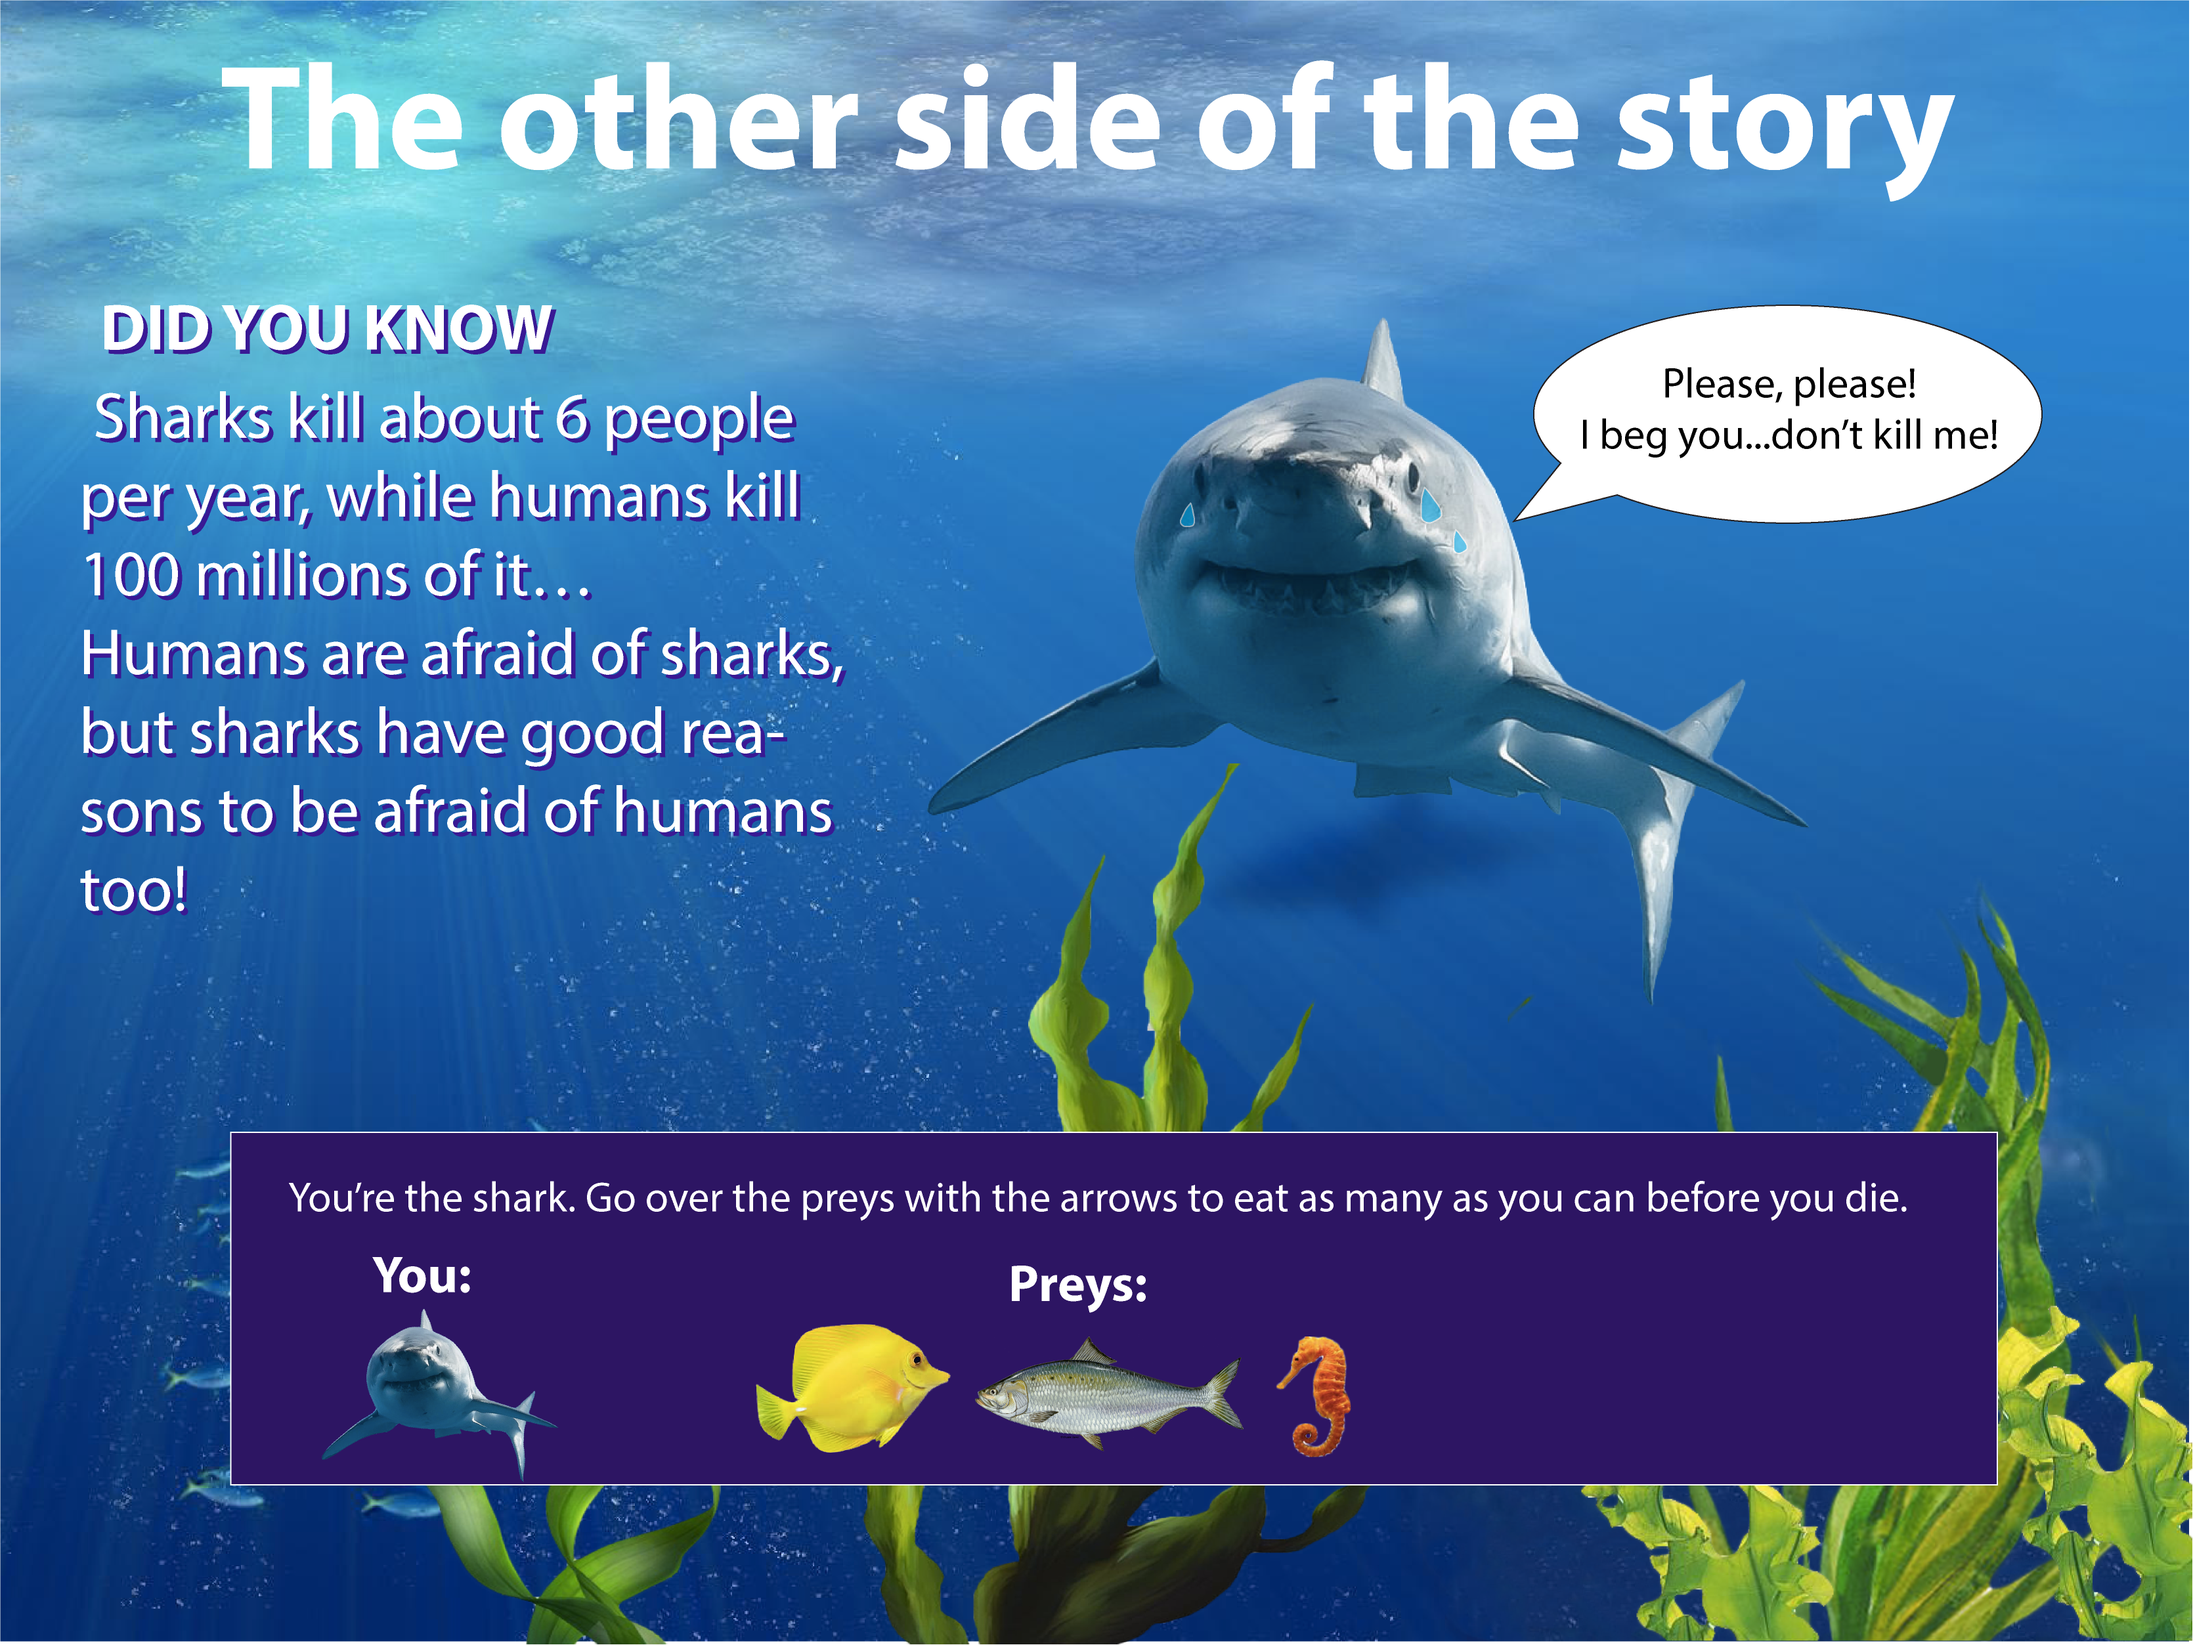
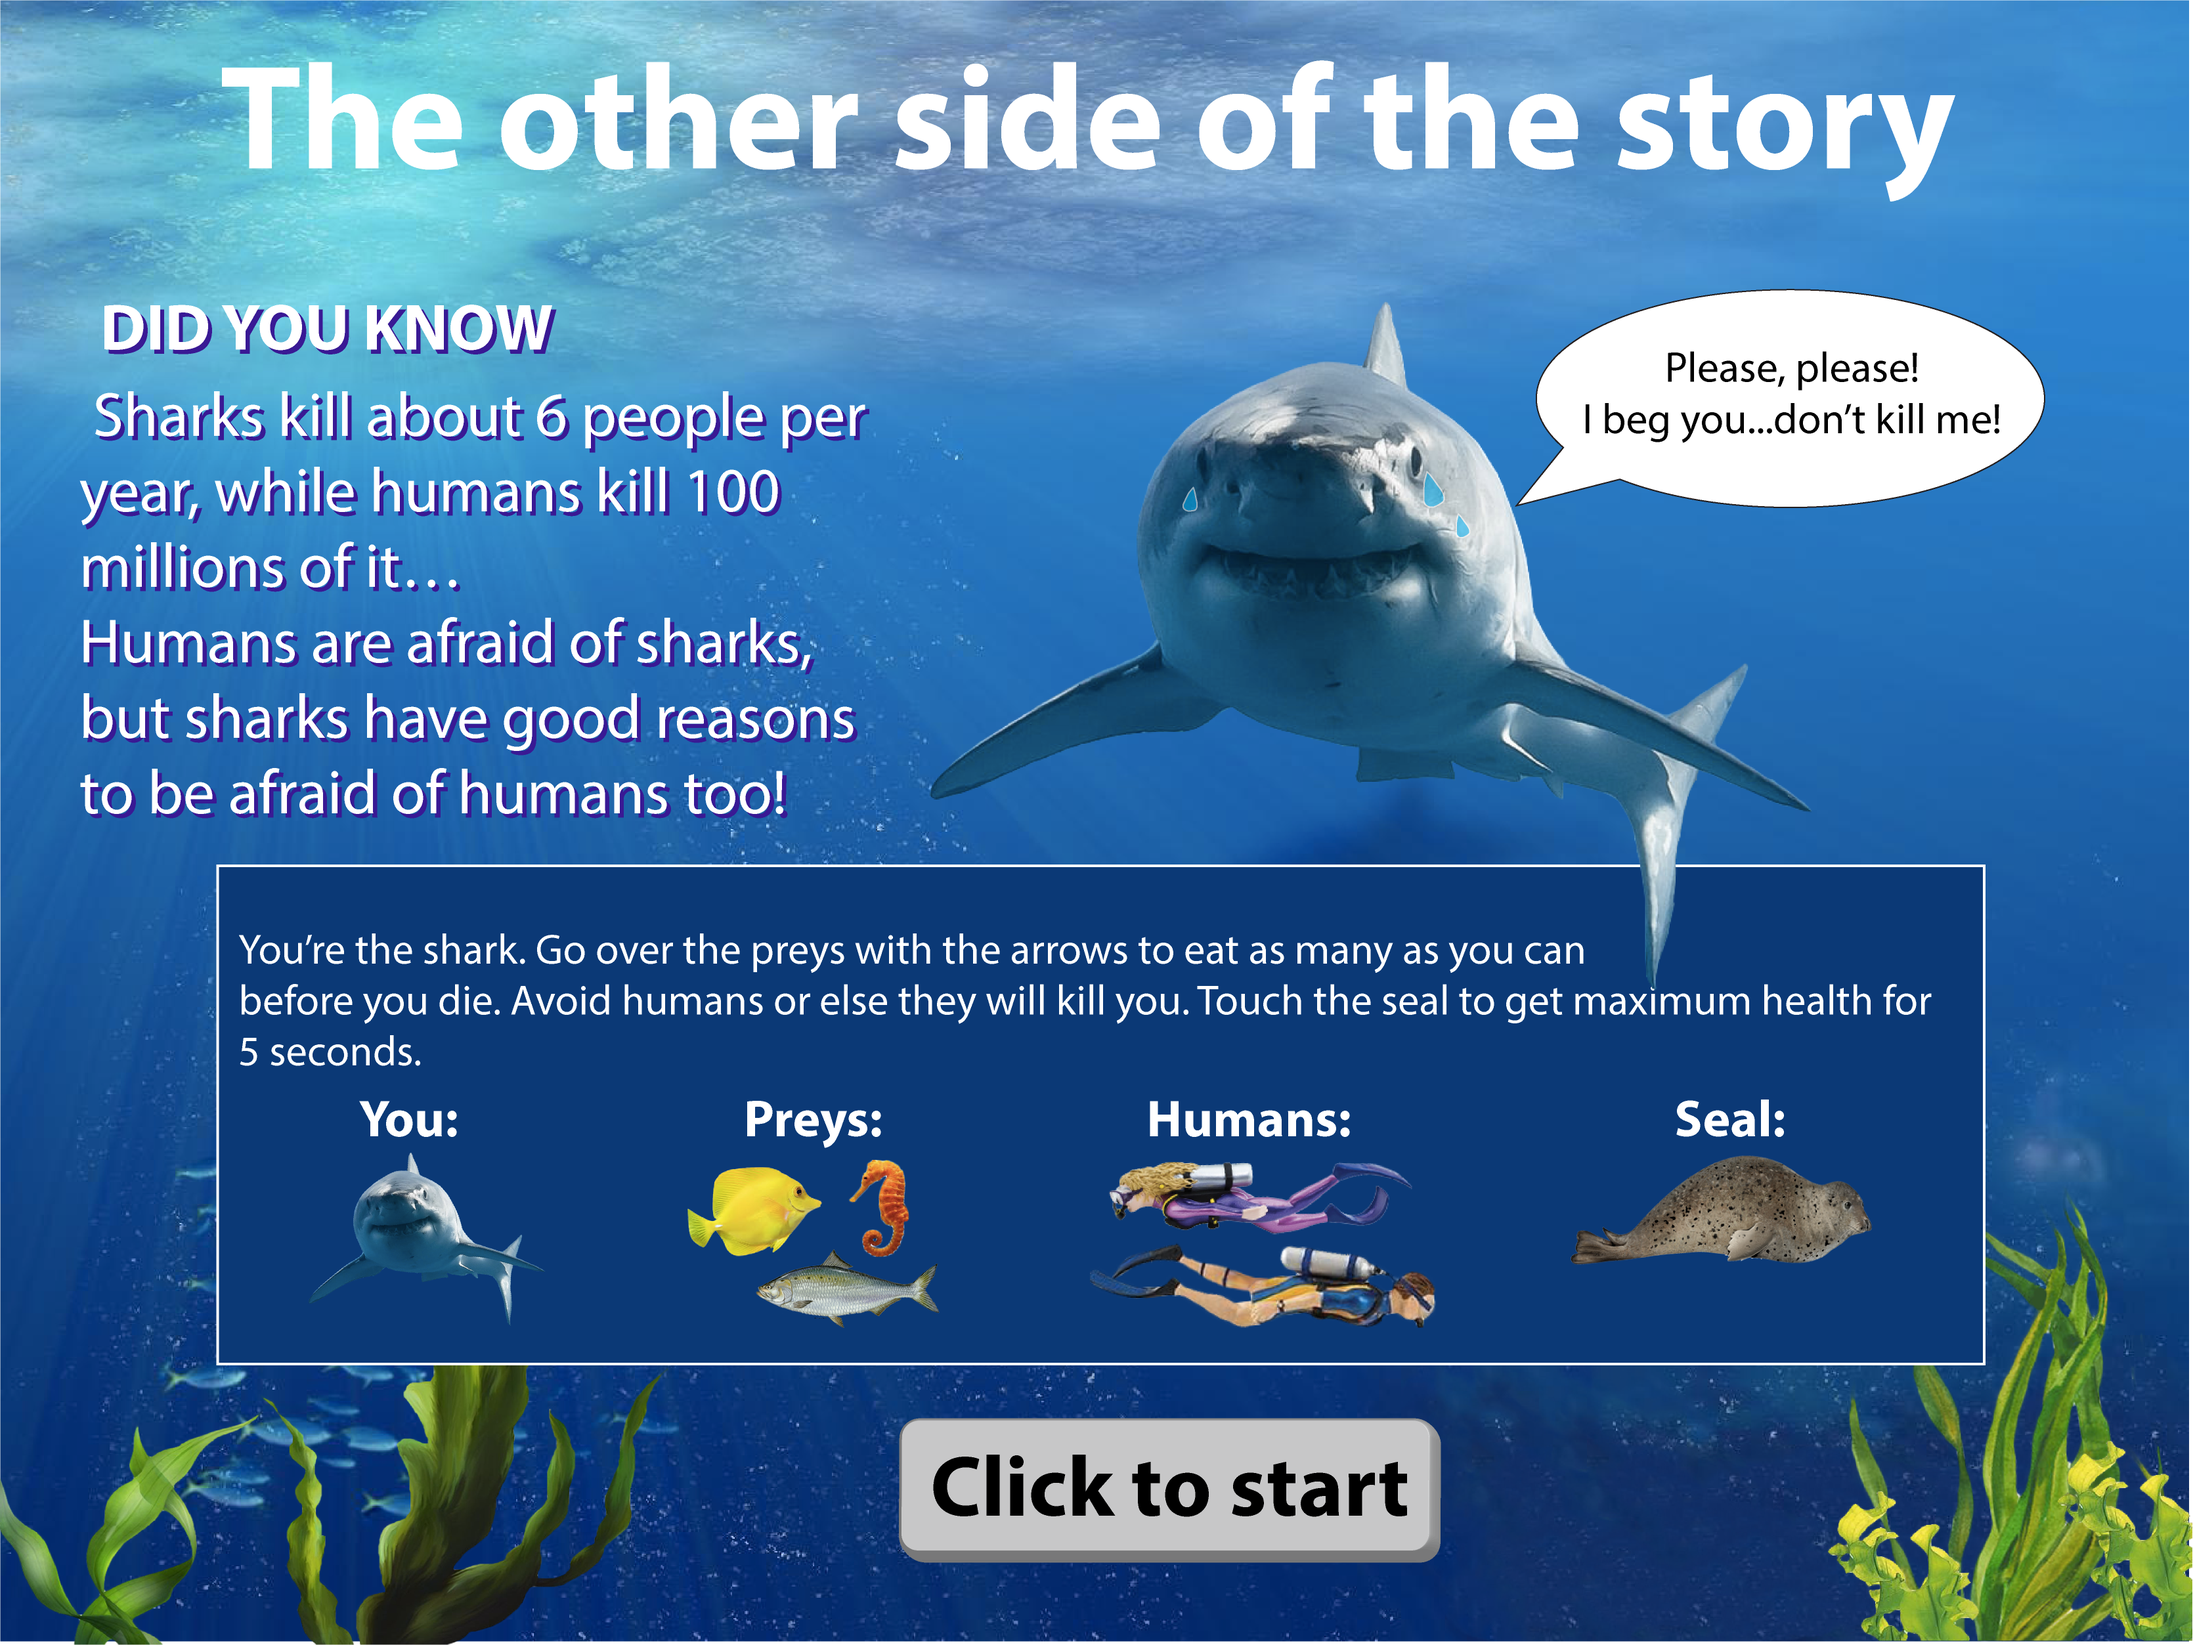
P2: added a game over image and changed the start image

diff --git a/Projects/Project2/js/script.js b/Projects/Project2/js/script.js
@@ -36,6 +36,7 @@ let seahorseImage;
 let backgroundWaterImage;
 let foregroundSeaWeedImage;
 let startPageImage;
+let gameoverImage;
 let diverGoingRightImage;
 let diverGoingLeftImage;
 let elephantSealImage;
@@ -47,13 +48,14 @@ let jawsThemeSFX;
 // Preload images and sounds
 function preload() {
   // Load images
+  backgroundWaterImage = loadImage("assets/images/background.jpg");
+  foregroundSeaWeedImage = loadImage("assets/images/foreground.png");
+  startPageImage = loadImage("assets/images/startPage.png");
+  gameoverImage = loadImage("assets/images/gameoverImage.png");
   sharkImage = loadImage("assets/images/shark.png");
   yellowFishImage = loadImage("assets/images/yellowFish.png");
   greyFishImage = loadImage("assets/images/greyFish.png");
   seahorseImage = loadImage("assets/images/seahorse.png");
-  backgroundWaterImage = loadImage("assets/images/background.jpg");
-  foregroundSeaWeedImage = loadImage("assets/images/foreground.png");
-  startPageImage = loadImage("assets/images/startPage.png");
   diverGoingRightImage = loadImage("assets/images/diverGoingRight.png");
   diverGoingLeftImage = loadImage("assets/images/diverGoingLeft.png");
   elephantSealImage = loadImage("assets/images/elephantSeal.png");
@@ -149,27 +151,9 @@ function draw() {
 
 // displayStartPage()
 // Display the start page image with back story and instructions
-// Display text in a rectangle to tell the player she/he has to click
 function displayStartPage() {
-  // Display background image
+  // Display image
   image(startPageImage, 0, 0, width, height);
-  // Display the rectangle in which the text will be placed
-  push();
-  fill(245, 197, 66);
-  rectMode(CENTER);
-  rect(width / 2, height / 5 * 3, 280, 50);
-  pop();
-
-  // Set up the font & display text over the rectangle
-  push();
-  textSize(30);
-  textStyle(BOLD);
-  textAlign(CENTER, CENTER);
-  fill(34, 32, 125);
-
-  // Display start text
-  text("CLICK TO START", width / 2, height / 5 * 3);
-  pop();
 }
 
 // mousePressed()
@@ -189,6 +173,7 @@ function mousePressed() {
 // showGameOver()
 // Display text about the game being over, the total number of prey eaten and the number of times you ate each prey
 function showGameOver() {
+  image(gameoverImage, 0, 0, width, height);
   push();
   // Set up the font & display text about the game being over and the total number of prey eaten
   textSize(50);
@@ -199,7 +184,7 @@ function showGameOver() {
   gameOverText = gameOverText + "You ate " + shark.numberOfPreyEaten + " preys\n";
   gameOverText = gameOverText + "before dying";
   // Display the text
-  text(gameOverText, width / 2, height / 3);
+  text(gameOverText, width / 3 * 2, height / 3);
   pop();
 
   // Set up the font and display the number of times you ate each prey next to the image of the prey
